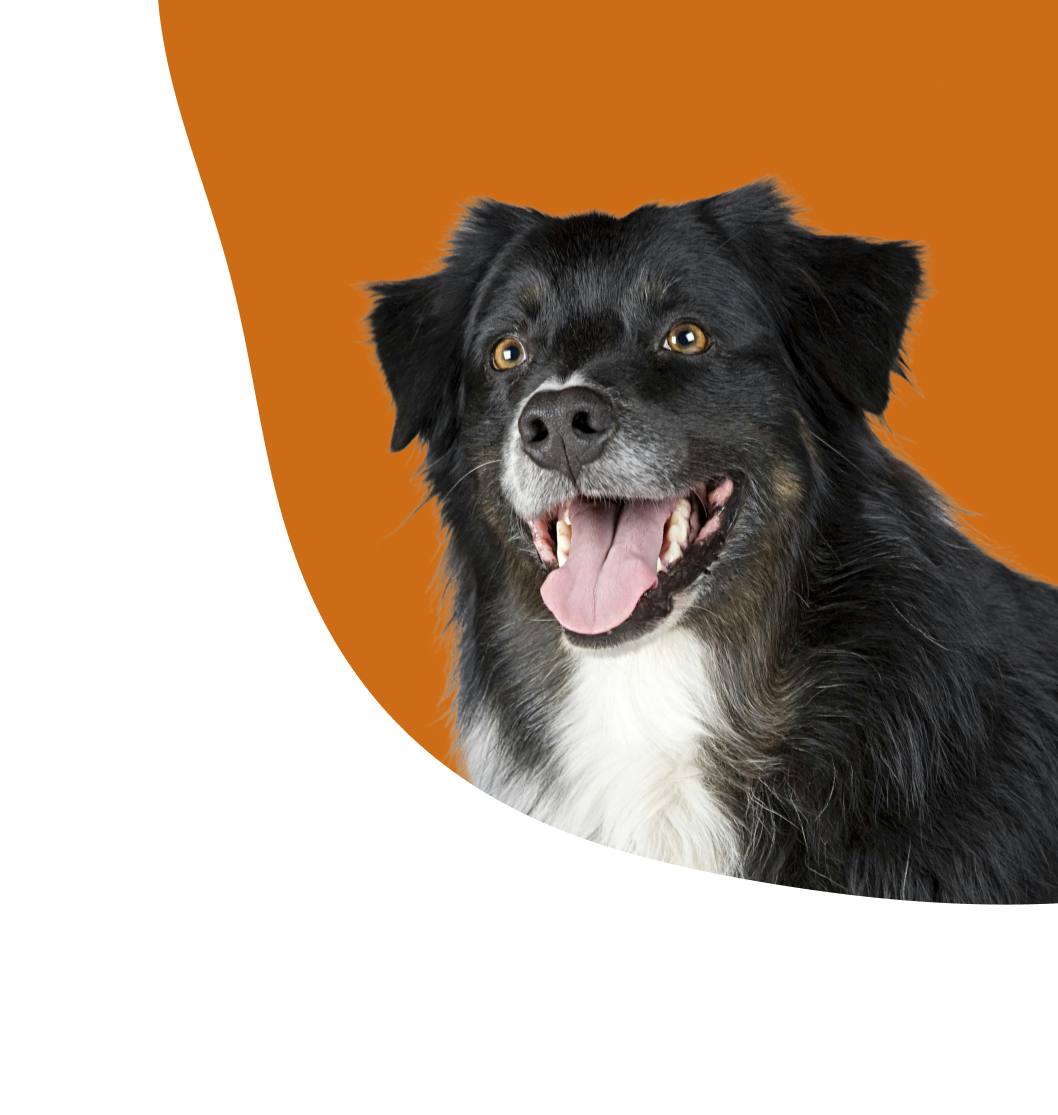
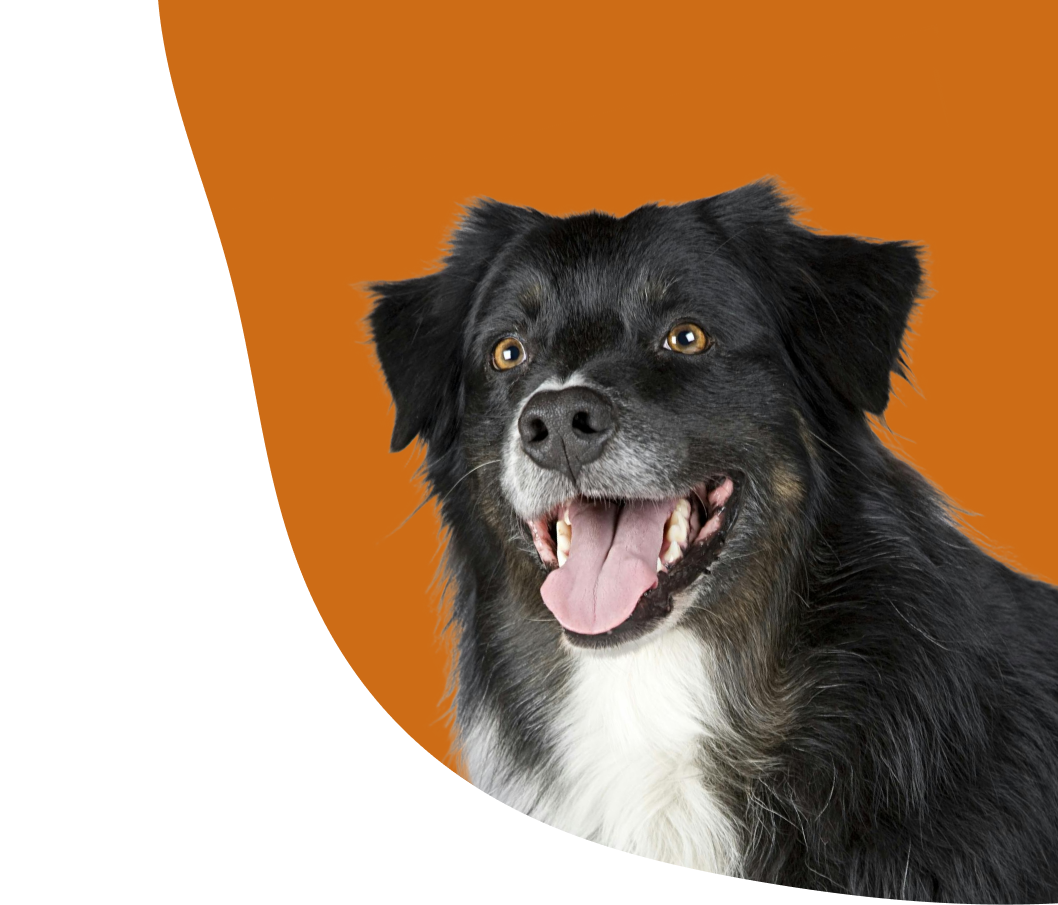
ajustando para ficar igual ao figma - navbar e hero, falta responsividade

diff --git a/frontend/app/components/Hero.tsx b/frontend/app/components/Hero.tsx
@@ -4,45 +4,39 @@ import background from '../assets/images/background-cachorro1.png';
 
 export default function Hero() {
   return (
-    <section className="relative max-h:[600px] overflow-hidden max-h-[800px]">
-      <div className="pointer-events-none absolute inset-0 max-h-[710px]">
-        <Image
-          src={background}
-          alt=""
-          priority
-          fill
-          sizes="100vw"
-          className="origin-right object-contain object-right"
-        />
-      </div>
+    <section className="overflow-hidden">
 
-      <div className="absolute inset-y-0 left-0 w-[40%] bg-white" />
-
-      <div className="relative mx-auto max-w-none px-4 pt-28 pb-16 sm:px-6 lg:pr-0 lg:pl-8">
-        <div className="grid min-h-[640px] grid-cols-1 items-center gap-12 lg:grid-cols-[1fr_720px]">
-          <div className="z-10 flex h-full flex-col items-start justify-center pl-5">
+      <div className=" mx-auto max-w-none px-4 pt-28 pb-16 sm:px-6 lg:pr-0 lg:pl-8">
+        <div className="flex min-h-[640px] items-center gap-12 lg:grid lg:grid-cols-[1fr_720px]">
+          <div className="z-10 flex h-full flex-col items-start justify-center pl-75">
             <h1
-              className="mb-4 text-5xl font-bold md:text-8xl"
+              className="mb-4 text-[64px] font-bold md:text-8xl"
               style={{ color: '#472B74' }}
             >
               Cuidar é amar.
             </h1>
-            <h2
-              className="mb-8 pl-3 text-2xl font-bold md:text-4xl"
+            <h1
+              className="mb-8 pl-3 text-[64px] font-bold md:text-8xl"
               style={{ color: '#472B74' }}
             >
-              Apadrinhe um amigo
-            </h2>
+              Apadrinhe
+            </h1>
+            
+            <h1
+              className="mb-8 pl-3 text-[64px] font-bold md:text-8xl"
+              style={{ color: '#472B74' }}
+            >
+              um amigo.
+            </h1>
           </div>
 
-          <div className="relative z-10 flex items-center justify-center lg:justify-end">
-            <div className="relative ml-auto h-[580px] w-[580px] lg:h-[760px] lg:w-[760px]">
+          <div className="z-10 flex items-center justify-center lg:justify-end">
+            <div className="absolute right-0 top-0 -z-10 h-[720px] w-[720px] lg:h-[920px] lg:w-[1080px]">
               <Image
                 src={cachorroMontado}
                 alt="Cachorro para adoção"
                 fill
-                sizes="(min-width: 1024px) 760px, 580px"
-                className="object-contain"
+                className="object-cover"
                 priority
               />
             </div>

diff --git a/frontend/app/components/Navbar.tsx b/frontend/app/components/Navbar.tsx
@@ -9,12 +9,12 @@ interface NavbarProps {
 export default function Navbar({ className = '' }: NavbarProps) {
   return (
     <nav
-      className={`fixed top-0 z-50 w-4/5 bg-transparent shadow-none ${className}`}
+      className={`fixed top-0 z-50 w-full bg-transparent shadow-none ${className}`}
     >
-      <div className="mx-auto max-w-7xl px-4 sm:px-6 lg:px-8">
-        <div className="flex h-20 items-center justify-between">
+      <div className="mx-auto max-w-8xl px-4 sm:px-6 lg:px-8">
+        <div className="flex h-20 items-center justify-between px-28">
           {/* Logo */}
-          <div className="flex-shrink-0">
+          <div className="flex-shrink-0 pl-45">
             <div className="flex items-center">
               <Image
                 src={logo}
@@ -27,22 +27,22 @@ export default function Navbar({ className = '' }: NavbarProps) {
 
           {/* Desktop Menu */}
           <div className="hidden md:block">
-            <div className="ml-10 flex items-baseline space-x-8">
+            <div className="flex items-baseline space-x-8">
               <a
                 href="#sobre"
-                className="text-lg font-medium text-white transition-colors hover:text-white/80"
+                className="text-[24px] text-white font-bold transition-colors hover:text-white/80"
               >
                 Sobre
               </a>
               <a
                 href="#como-atuamos"
-                className="text-lg font-medium text-white transition-colors hover:text-white/80"
+                className="text-[24px] text-white font-bold transition-colors hover:text-white/80"
               >
                 Como atuamos
               </a>
               <a
                 href="#como-ajudar"
-                className="text-lg font-medium text-white transition-colors hover:text-white/80"
+                className="text-[24px] text-white font-bold transition-colors hover:text-white/80"
               >
                 Como ajudar
               </a>

diff --git a/frontend/app/page.tsx b/frontend/app/page.tsx
@@ -9,12 +9,13 @@ import Heart_with_dog_paw from './assets/icons/Heart_with_dog_paw.svg';
 
 export default function Home() {
   return (
-    <div className="min-h-screen max-w-4/5 m-auto bg-white">
-      <Navbar />
+    <div className="min-h-screen bg-white">
+      <div className="relative">
+        <Navbar />
+        <Hero />
+      </div>
 
-      <Hero />
-
-      <section id="sobre" className="bg-white py-16">
+      <section id="sobre" className="bg-white py-16 mt-50">
         <div className="mx-auto max-w-7xl px-4 sm:px-6 lg:px-8">
           <div className="grid grid-cols-1 items-center gap-12 lg:grid-cols-2">
             <div>
